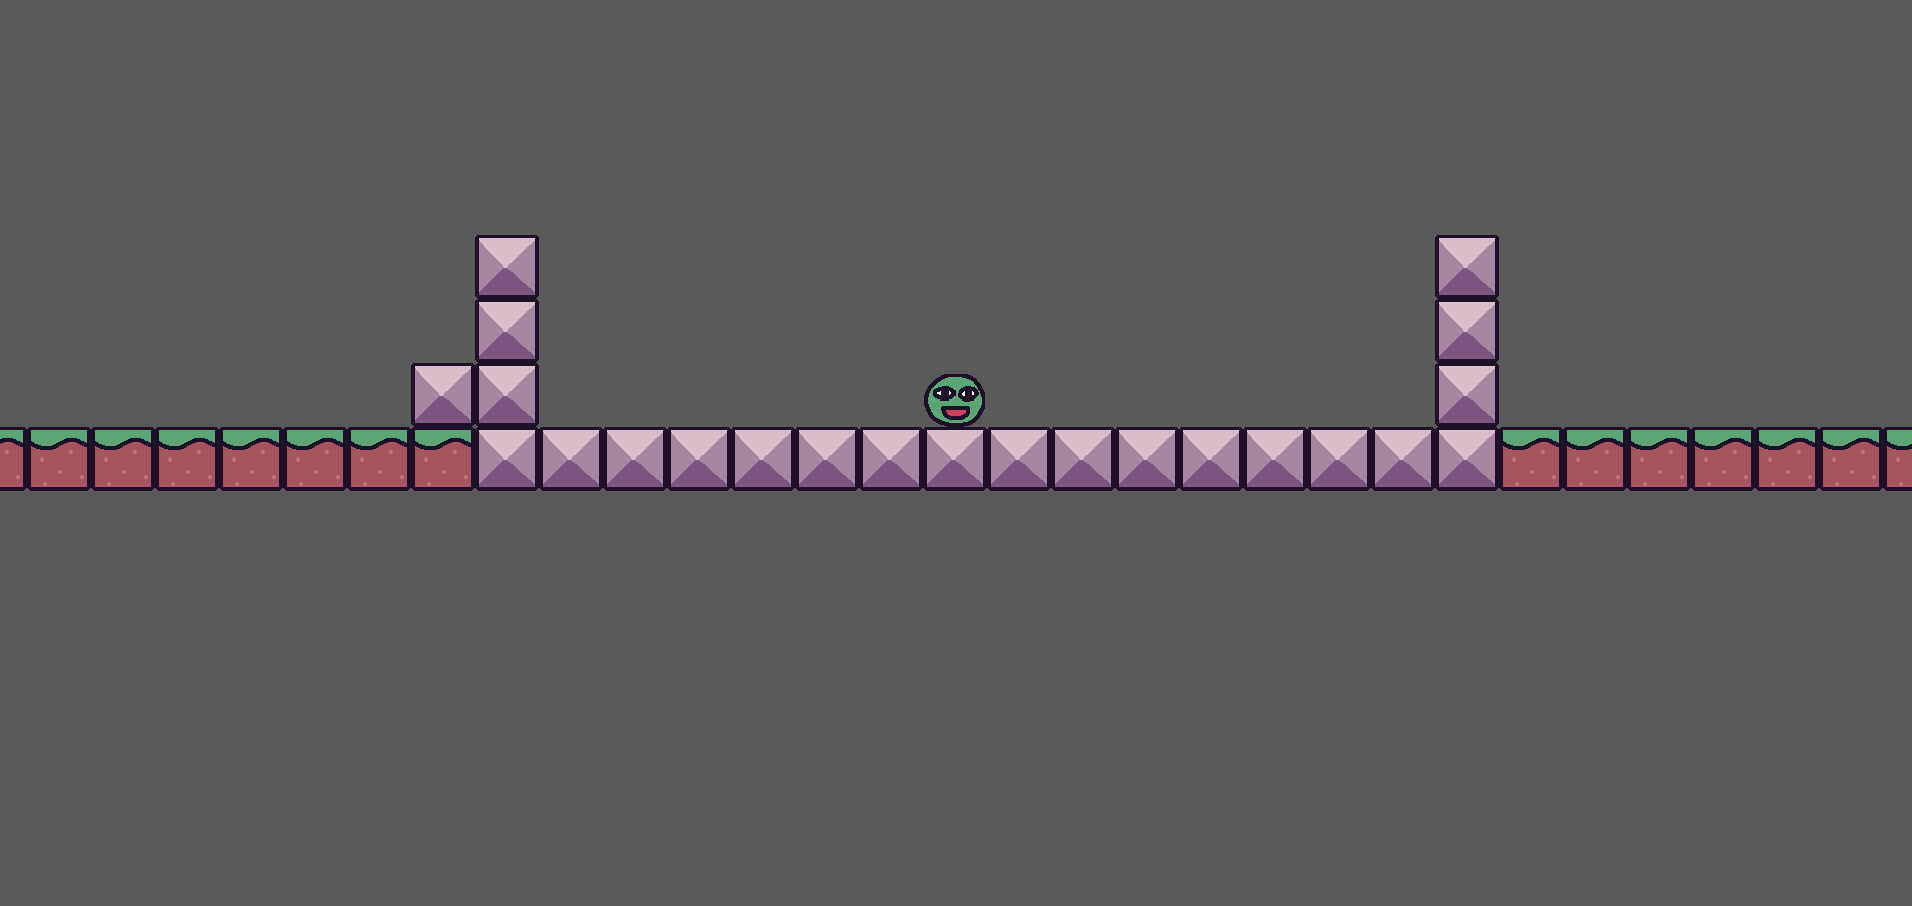
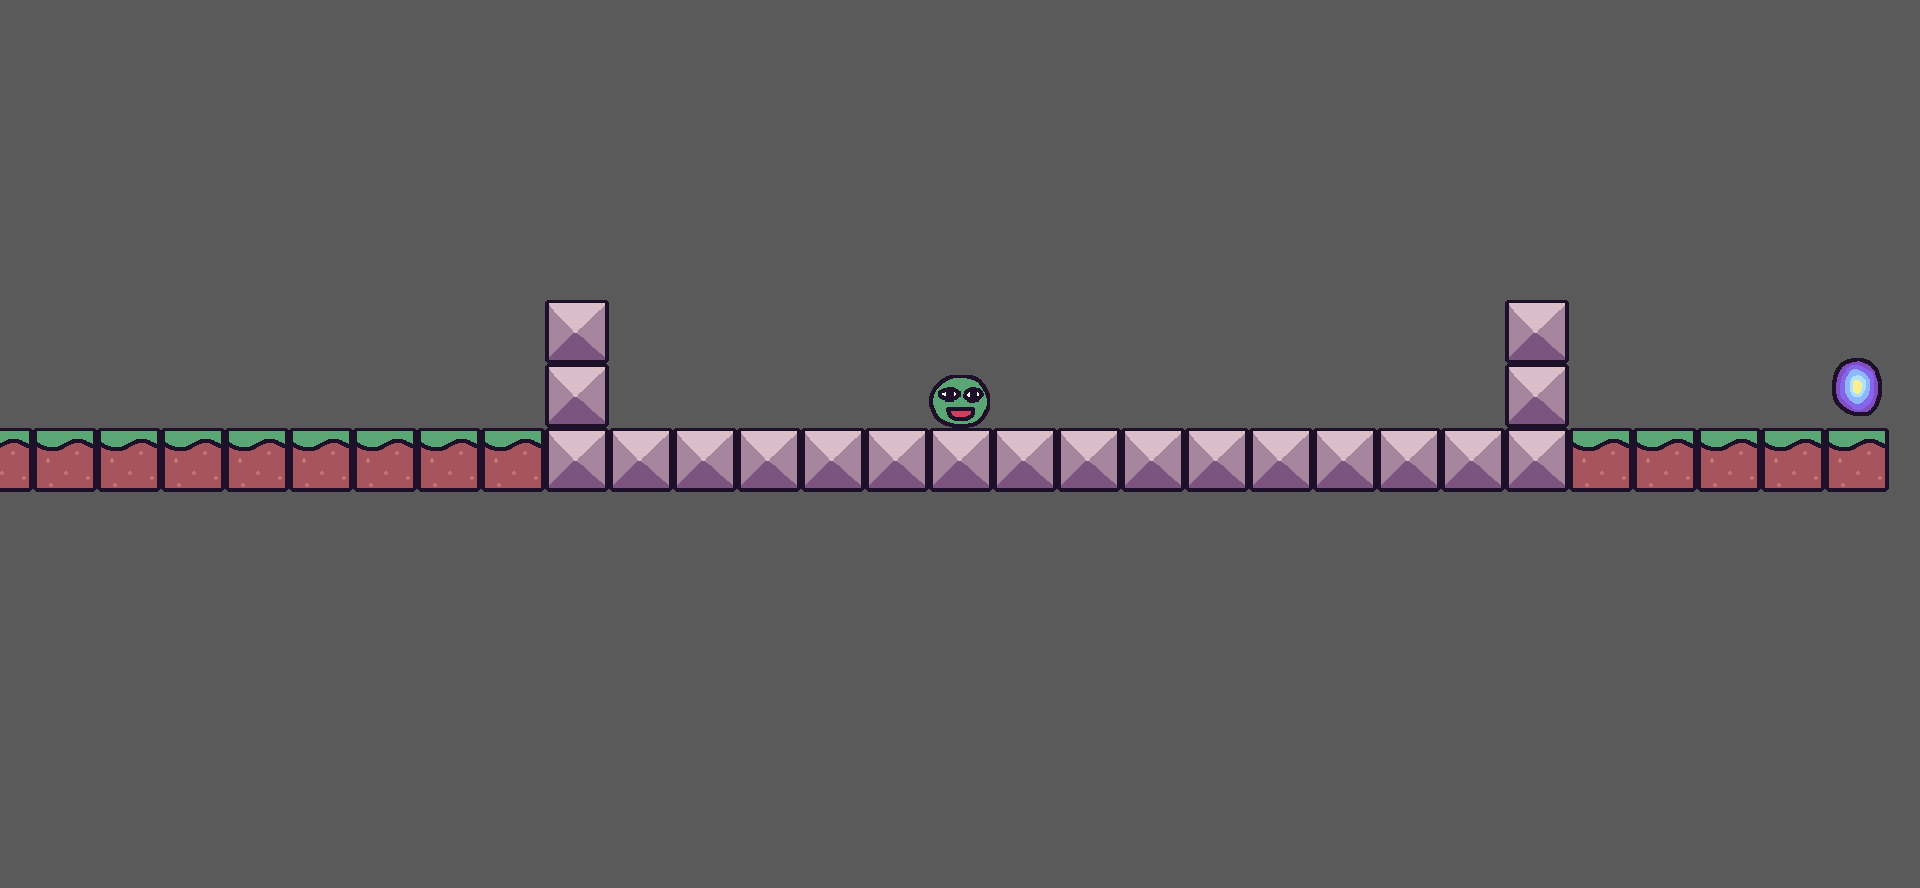
GITBOOK-87: change request with no subject merged in GitBook

Changed region(s): [[0.0, 0.2432, 1.0, 0.5777]]

diff --git a/analysis/1.4a-features-of-the-proposed-solution.md b/analysis/1.4a-features-of-the-proposed-solution.md
@@ -10,7 +10,7 @@ For my game, I will be using the W, A, S, and D keys for the up, left, right, an
 
 I will have my players begin on the left side of my side-scrolling map. The camera will follow the player traversing the map while defeating enemies. There will be platforms that the player will have to jump onto to get power-ups. I would like for my character to have movement particles when punching, jumping and running. Just simple ones like dust/wind particles. However, due to time constraints, I may run out of time to add them. As mentioned in [1.3](1.3-research-the-problem.md),  my character will have punch animations like the original Street Fighter, a retro style with 2 different frames involved: a standstill frame, and an arm stretch-out punch frame.
 
-<figure><img src="../.gitbook/assets/image (1) (1).png" alt=""><figcaption><p>Street Fighter Punch Animation</p></figcaption></figure>
+<figure><img src="../.gitbook/assets/image (1) (1) (1).png" alt=""><figcaption><p>Street Fighter Punch Animation</p></figcaption></figure>
 
 ### Power-ups
 

diff --git a/design-and-development/cycle-1-7.md b/design-and-development/cycle-1-7.md
@@ -2,12 +2,13 @@
 
 ### Design
 
-In this cycle, I will be adding enemies and their movement. It is important that they spawn in the correct place, that being inside of the ring, and it is important that they move around the ring. I will use more symbols and temporary designs from kaboom.js.
+In this cycle, combat will be developed, a health bar will be added and the enemies/player will do damage. Additionally, the final boss will be developed so that it has more health is harder to defeat and does more damage.
 
 ### Objectives
 
-* [x] Spawn in enemies
-* [x] Enable movement for enemies
+* [x] Enemy combat
+* [x] Healthbar
+* [x] Final boss completion
 
 ### Usability Features
 

diff --git a/design-and-development/cycle-1-5.md b/design-and-development/cycle-1-5.md
@@ -2,14 +2,16 @@
 
 ### Design
 
+In this cycle, I will implement powerups. And a "win record collector". By this I mean an object that the player collects and it will count as the players boxing record every time they beat a level. They will be collected at the end of each level just before the portal. The boxing record will appear in the top left of the screen. The object at the moment will be kaboom.js design temporarily.
+
 
 
 {% file src="../.gitbook/assets/2023-09-06 18-43-58.mkv" %}
 
 ### Objectives
 
-* [x] Spawn in enemies
-* [x] Enable movement for enemies
+* [x] Boxing record
+* [x] New powerups
 
 ### Usability Features
 

diff --git a/design-and-development/cycle-1-3.md b/design-and-development/cycle-1-3.md
@@ -183,11 +183,11 @@ Evidence for testing
 
 Level one design with the portal at the end
 
-<figure><img src="../.gitbook/assets/image.png" alt=""><figcaption></figcaption></figure>
+<figure><img src="../.gitbook/assets/image (1).png" alt=""><figcaption></figcaption></figure>
 
 Level two:
 
-<figure><img src="../.gitbook/assets/image (1).png" alt=""><figcaption></figcaption></figure>
+<figure><img src="../.gitbook/assets/image (1) (1).png" alt=""><figcaption></figcaption></figure>
 
 <figure><img src="../.gitbook/assets/image (3).png" alt=""><figcaption></figcaption></figure>
 

diff --git a/design-and-development/cycle-1-6.md b/design-and-development/cycle-1-6.md
@@ -2,7 +2,9 @@
 
 ### Design
 
-In this cycle, I will be adding enemies and their movement. It is important that they spawn in the correct place, that being inside of the ring, and it is important that they move around the ring. I will use more symbols and temporary designs from kaboom.js.
+In this cycle, the design of the player will be improved. Taking inspiration from retro games.
+
+<figure><img src="../.gitbook/assets/image.png" alt=""><figcaption></figcaption></figure>
 
 ### Objectives
 

diff --git a/design-and-development/cycle-1-8.md b/design-and-development/cycle-1-8.md
@@ -2,7 +2,7 @@
 
 ### Design
 
-In this cycle, I will be adding enemies and their movement. It is important that they spawn in the correct place, that being inside of the ring, and it is important that they move around the ring. I will use more symbols and temporary designs from kaboom.js.
+In this cycle, the HUD will be designed and fully prepared. The main menu will be designed. A completion design will be added.
 
 ### Objectives
 
